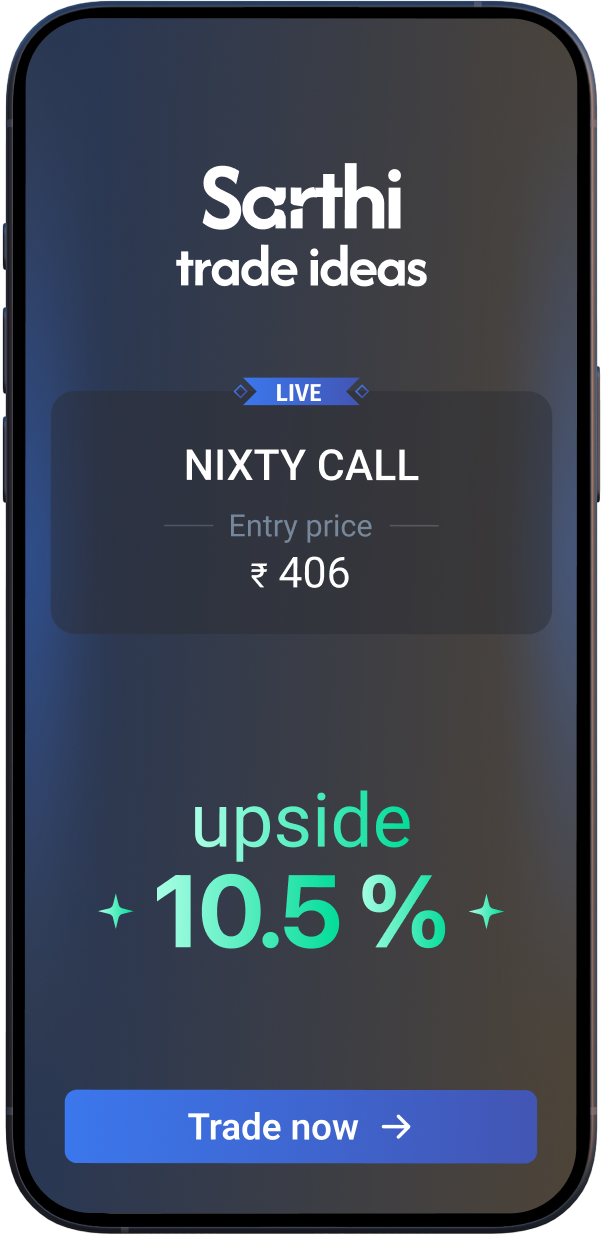
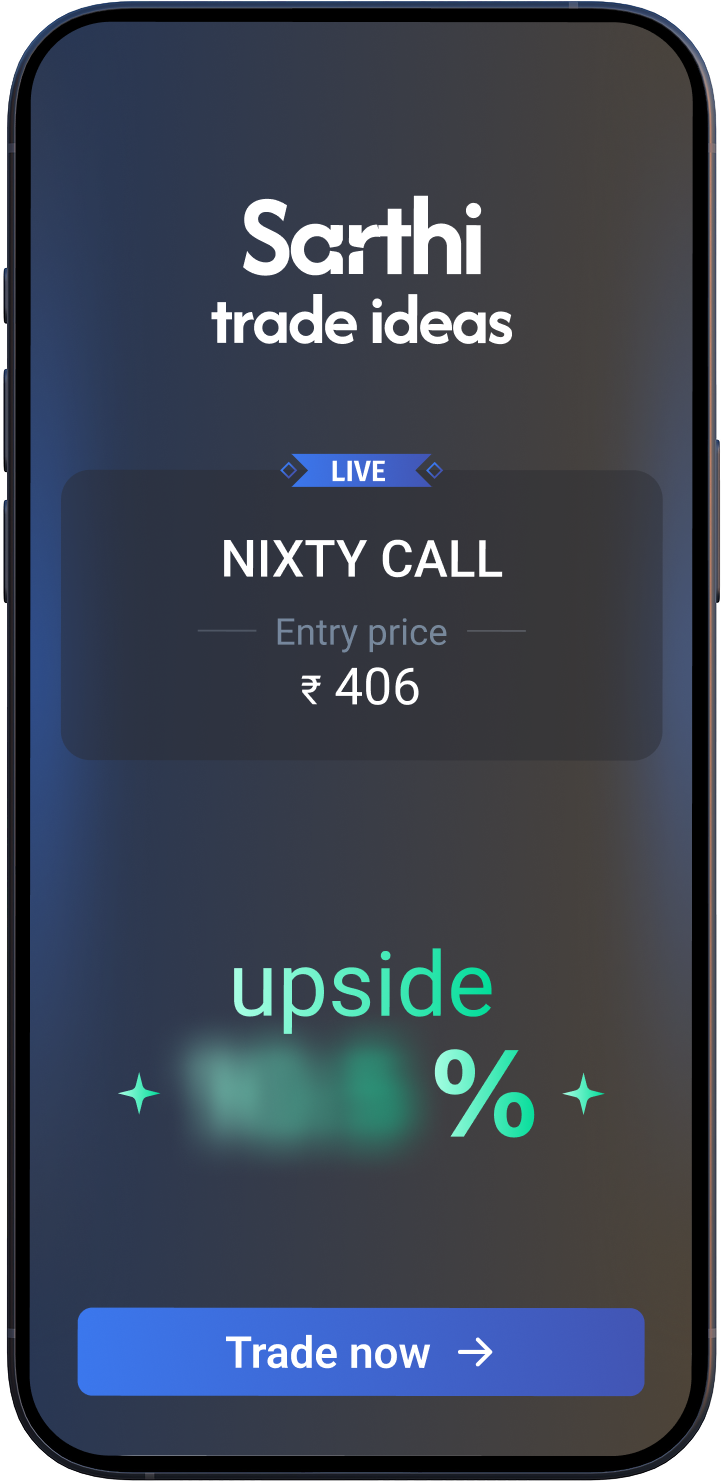
Update stats labels from win ratio to success ratio and improve console logging for Clarity tags

diff --git a/index.html b/index.html
@@ -12,10 +12,10 @@
 
 	<!-- Microsoft Clarity Tracking Code -->
 	<script type="text/javascript">
-		(function(c,l,a,r,i,t,y){
-			c[a]=c[a]||function(){(c[a].q=c[a].q||[]).push(arguments)};
-			t=l.createElement(r);t.async=1;t.src="https://www.clarity.ms/tag/"+i;
-			y=l.getElementsByTagName(r)[0];y.parentNode.insertBefore(t,y);
+		(function (c, l, a, r, i, t, y) {
+			c[a] = c[a] || function () { (c[a].q = c[a].q || []).push(arguments) };
+			t = l.createElement(r); t.async = 1; t.src = "https://www.clarity.ms/tag/" + i;
+			y = l.getElementsByTagName(r)[0]; y.parentNode.insertBefore(t, y);
 		})(window, document, "clarity", "script", "t09wcos3a6");
 	</script>
 </head>
@@ -62,7 +62,7 @@
 									<div class="div">₹</div>
 									<div class="k-traders">72% calls</div>
 								</div>
-								<div class="use-sarthi">win ratio</div>
+								<div class="use-sarthi">success ratio</div>
 							</div>
 						</div>
 						<img class="frame-child" alt="" src="./Assets/ui/Divider-lines.png">
@@ -125,7 +125,7 @@
 									<div class="div">₹</div>
 									<div class="k-traders">72% calls</div>
 								</div>
-								<div class="use-sarthi">win ratio</div>
+								<div class="use-sarthi">success ratio</div>
 							</div>
 						</div>
 						<img class="frame-child" alt="" src="./Assets/ui/Divider-lines.png">
@@ -697,21 +697,27 @@
 		// MICROSOFT CLARITY CUSTOM EVENT TRACKING
 		// ==========================================
 		function trackEvent(name, params = {}) {
-			console.log(`[Clarity] Track Event: ${name}`, params);
+			console.log(`[Clarity] Attempting to track event: ${name}`, params);
 			if (typeof clarity === 'function') {
 				// Send standard event
 				clarity('event', name, params);
-				
+				console.log(`[Clarity Success] Dispatched event: ${name}`, params);
+
 				// Also set custom tags so they show up directly under the "Custom tags" filter dropdown
 				if (name === 'cta_click' && params.button_text) {
 					clarity('set', 'cta_clicked', params.button_text);
+					console.log(`[Clarity Success] Set custom tag 'cta_clicked': "${params.button_text}"`);
 				}
 				if (name === 'faq_open' && params.faq_question) {
 					clarity('set', 'faq_opened', params.faq_question);
+					console.log(`[Clarity Success] Set custom tag 'faq_opened': "${params.faq_question}"`);
 				}
 				if (name === 'interactive_mockup_step' && params.next_step) {
 					clarity('set', 'mockup_step', String(params.next_step));
+					console.log(`[Clarity Success] Set custom tag 'mockup_step': "${params.next_step}"`);
 				}
+			} else {
+				console.warn('[Clarity Warning] clarity function is not defined on the window object (AdBlocker might be active).');
 			}
 		}
 